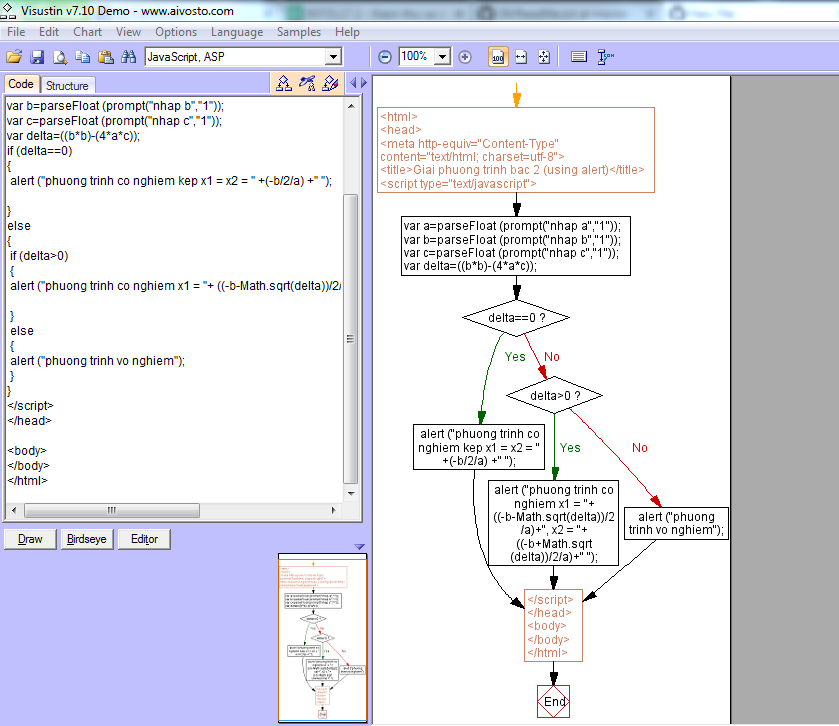
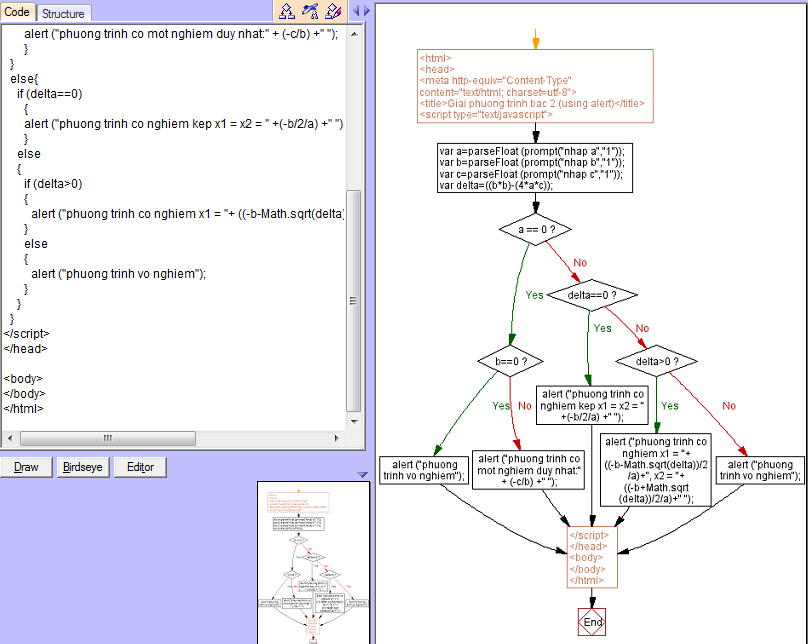
update

diff --git a/tuan3-4/phuongtrinhbac2.html b/tuan3-4/phuongtrinhbac2.html
@@ -4,27 +4,37 @@
 <meta http-equiv="Content-Type" content="text/html; charset=utf-8">
 <title>Giai phuong trinh bac 2 (using alert)</title>
 <script type="text/javascript">
-var a=parseFloat (prompt("nhap a","1"));
-var b=parseFloat (prompt("nhap b","1"));
-var c=parseFloat (prompt("nhap c","1"));
-var delta=((b*b)-(4*a*c));
-if (delta==0)
-{
- alert ("phuong trinh co nghiem kep x1 = x2 = " +(-b/2/a) +" ");
- 
-}
-else
-{
- if (delta>0)
- {
- alert ("phuong trinh co nghiem x1 = "+ ((-b-Math.sqrt(delta))/2/a)+", x2 = "+ ((-b+Math.sqrt(delta))/2/a)+" ");
- 
- }
- else
- {
- alert ("phuong trinh vo nghiem");
- }
-}
+	var a=parseFloat (prompt("nhap a","1"));
+	var b=parseFloat (prompt("nhap b","1"));
+	var c=parseFloat (prompt("nhap c","1"));
+	var delta=((b*b)-(4*a*c));
+	if(a == 0)
+	{
+		if(b==0){
+			alert ("phuong trinh vo nghiem");
+			}
+		else
+		{
+			alert ("phuong trinh co mot nghiem duy nhat:" + (-c/b) +" ");
+			}
+	}
+	else{
+		if (delta==0)
+			{
+			alert ("phuong trinh co nghiem kep x1 = x2 = " +(-b/2/a) +" ");
+			}
+		else
+		{	
+			if (delta>0)
+			{
+				alert ("phuong trinh co nghiem x1 = "+ ((-b-Math.sqrt(delta))/2/a)+", x2 = "+ ((-b+Math.sqrt(delta))/2/a)+" ");
+			}
+			else
+			{
+				alert ("phuong trinh vo nghiem");
+			}
+		}
+	}
 </script>
 </head>
 
